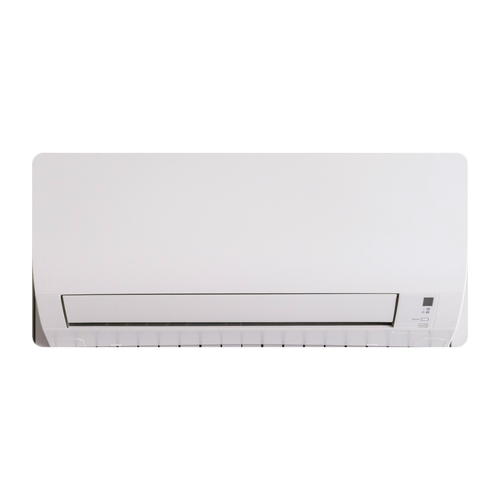
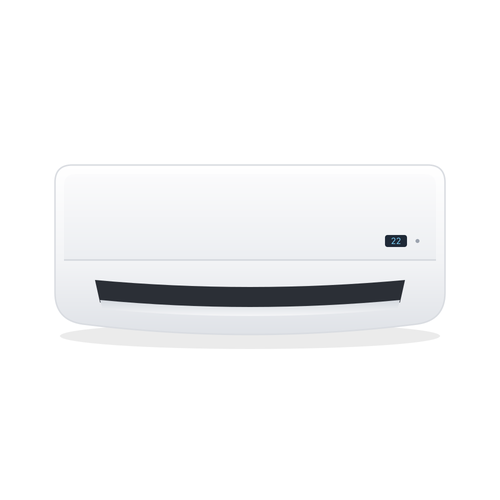
Homey app: fix blank pairing view, cleaner driver image
The pairing views shared element ids (form, error), so the key view's
script could bind to the previous view's form and the button submitted
the page natively: a blank screen, and the connect handler never ran.
Every view now has its own ids and forms cannot navigate. Verified on a
Homey: pairing reaches the device list and adds the unit.

- The driver image is a clean rendering of a wall unit on white instead
  of a photo crop.
- While the AC is off, the mode shows the mode it returns to.

Changed region(s): [[0.06, 0.3, 0.96, 0.72], [0.75, 0.45, 0.84, 0.51]]

diff --git a/homey-app/drivers/indoor-unit/pair/manual.html b/homey-app/drivers/indoor-unit/pair/manual.html
@@ -3,26 +3,26 @@
 </style>
 
 <p class="homey-subtitle" data-i18n="pair.manual_intro"></p>
-<form id="form" class="homey-form">
+<form id="man-form" class="homey-form" action="javascript:void(0)">
   <div class="homey-form-group">
-    <label class="homey-form-label" for="host" data-i18n="pair.host_label"></label>
-    <input class="homey-form-input" id="host" type="text" autocomplete="off" autocapitalize="off" spellcheck="false" required>
+    <label class="homey-form-label" for="man-host" data-i18n="pair.host_label"></label>
+    <input class="homey-form-input" id="man-host" type="text" autocomplete="off" autocapitalize="off" spellcheck="false" required>
   </div>
-  <p id="error" class="hv-error" hidden></p>
+  <p id="man-error" class="hv-error" hidden></p>
   <button type="submit" class="homey-button-primary-full" data-i18n="pair.next"></button>
 </form>
 
 <script type="application/javascript">
   (function () {
-    var error = document.getElementById('error');
-    document.getElementById('host').placeholder = Homey.__('pair.host_placeholder');
-    document.getElementById('form').addEventListener('submit', function (e) {
+    var error = document.getElementById('man-error');
+    document.getElementById('man-host').placeholder = Homey.__('pair.host_placeholder');
+    document.getElementById('man-form').addEventListener('submit', function (e) {
       e.preventDefault();
       error.hidden = true;
-      var value = document.getElementById('host').value.trim();
+      var value = document.getElementById('man-host').value.trim();
       var parts = value.split(':');
       Homey.emit('set_host', { host: parts[0], port: parts[1] })
-        .then(function () { Homey.showView('key'); })
+        .then(function () { Homey.showView('api_key'); })
         .catch(function (err) {
           error.textContent = err && err.message ? err.message : String(err);
           error.hidden = false;

diff --git a/homey-app/drivers/indoor-unit/pair/api_key.html b/homey-app/drivers/indoor-unit/pair/api_key.html
@@ -4,27 +4,27 @@
 </style>
 
 <p class="homey-subtitle" data-i18n="pair.key_intro"></p>
-<form id="form" class="homey-form">
+<form id="key-form" class="homey-form" action="javascript:void(0)">
   <div class="homey-form-group">
-    <label class="homey-form-label" for="key" data-i18n="pair.key_label"></label>
-    <input class="homey-form-input" id="key" type="password" autocomplete="off" autocapitalize="off" spellcheck="false" required>
+    <label class="homey-form-label" for="key-key" data-i18n="pair.key_label"></label>
+    <input class="homey-form-input" id="key-key" type="password" autocomplete="off" autocapitalize="off" spellcheck="false" required>
     <p class="hv-hint" data-i18n="pair.key_hint"></p>
   </div>
-  <p id="error" class="hv-error" hidden></p>
+  <p id="key-error" class="hv-error" hidden></p>
   <button type="submit" class="homey-button-primary-full" data-i18n="pair.connect"></button>
 </form>
 
 <script type="application/javascript">
   (function () {
-    var error = document.getElementById('error');
+    var error = document.getElementById('key-error');
     var busy = false;
-    document.getElementById('form').addEventListener('submit', function (e) {
+    document.getElementById('key-form').addEventListener('submit', function (e) {
       e.preventDefault();
       if (busy) return;
       busy = true;
       error.hidden = true;
       Homey.showLoadingOverlay();
-      Homey.emit('connect', { key: document.getElementById('key').value })
+      Homey.emit('connect', { key: document.getElementById('key-key').value })
         .then(function () {
           Homey.hideLoadingOverlay();
           Homey.showView('list_devices');

diff --git a/homey-app/drivers/indoor-unit/pair/select.html b/homey-app/drivers/indoor-unit/pair/select.html
@@ -5,26 +5,26 @@
 </style>
 
 <p class="homey-subtitle" data-i18n="pair.select_intro"></p>
-<div id="list"></div>
-<p id="error" class="hv-error" hidden></p>
-<button id="manual" type="button" class="homey-button-secondary-shadow-full" data-i18n="pair.manual_button"></button>
+<div id="sel-list"></div>
+<p id="sel-error" class="hv-error" hidden></p>
+<button id="sel-manual" type="button" class="homey-button-secondary-shadow-full" data-i18n="pair.manual_button"></button>
 
 <script type="application/javascript">
   (function () {
-    var list = document.getElementById('list');
-    var error = document.getElementById('error');
+    var list = document.getElementById('sel-list');
+    var error = document.getElementById('sel-error');
 
     function choose(item) {
       error.hidden = true;
       Homey.emit('set_host', { host: item.host, port: item.port })
-        .then(function () { Homey.showView('key'); })
+        .then(function () { Homey.showView('api_key'); })
         .catch(function (err) {
           error.textContent = err && err.message ? err.message : String(err);
           error.hidden = false;
         });
     }
 
-    document.getElementById('manual').addEventListener('click', function () {
+    document.getElementById('sel-manual').addEventListener('click', function () {
       Homey.showView('manual');
     });
 

diff --git a/homey-app/drivers/indoor-unit/driver.js b/homey-app/drivers/indoor-unit/driver.js
@@ -24,6 +24,7 @@ class IndoorUnitDriver extends Homey.Driver {
       if (!address) throw new Error(this.homey.__('pair.errors.no_host'));
       pending.host = address;
       pending.port = Number(port) || 6053;
+      this.log('pair: host set');
       return true;
     });
 
@@ -40,8 +41,10 @@ class IndoorUnitDriver extends Homey.Driver {
         pending.mac = normaliseMac(info.mac);
         pending.bridgeName = info.friendlyName || info.name;
         pending.units = units.indoor.map((u) => ({ deviceId: u.deviceId, name: u.name }));
+        this.log(`pair: connected, ${pending.units.length} indoor unit(s)`);
         return true;
       } catch (err) {
+        this.log(`pair: connect failed (${err.code || err.message})`);
         throw new Error(this.describeError(err));
       } finally {
         conn.close();
@@ -49,6 +52,7 @@ class IndoorUnitDriver extends Homey.Driver {
     });
 
     session.setHandler('list_devices', async () => {
+      this.log(`pair: list_devices (${pending.units.length} unit(s))`);
       const paired = new Set(this.getDevices().map((d) => d.getData().id));
       return pending.units
         .map((u) => ({

diff --git a/homey-app/drivers/indoor-unit/device.js b/homey-app/drivers/indoor-unit/device.js
@@ -94,6 +94,8 @@ class IndoorUnitDevice extends Homey.Device {
       case 'climate': {
         const c = climateToHomey(value);
         await this.update('onoff', c.on);
+        // While off, show the mode the AC returns to when switched on.
+        if (!c.mode) await this.update('samsung_hvac_mode', this.lastMode);
         if (c.mode) {
           await this.update('samsung_hvac_mode', c.mode);
           if (c.mode !== this.lastMode) {
